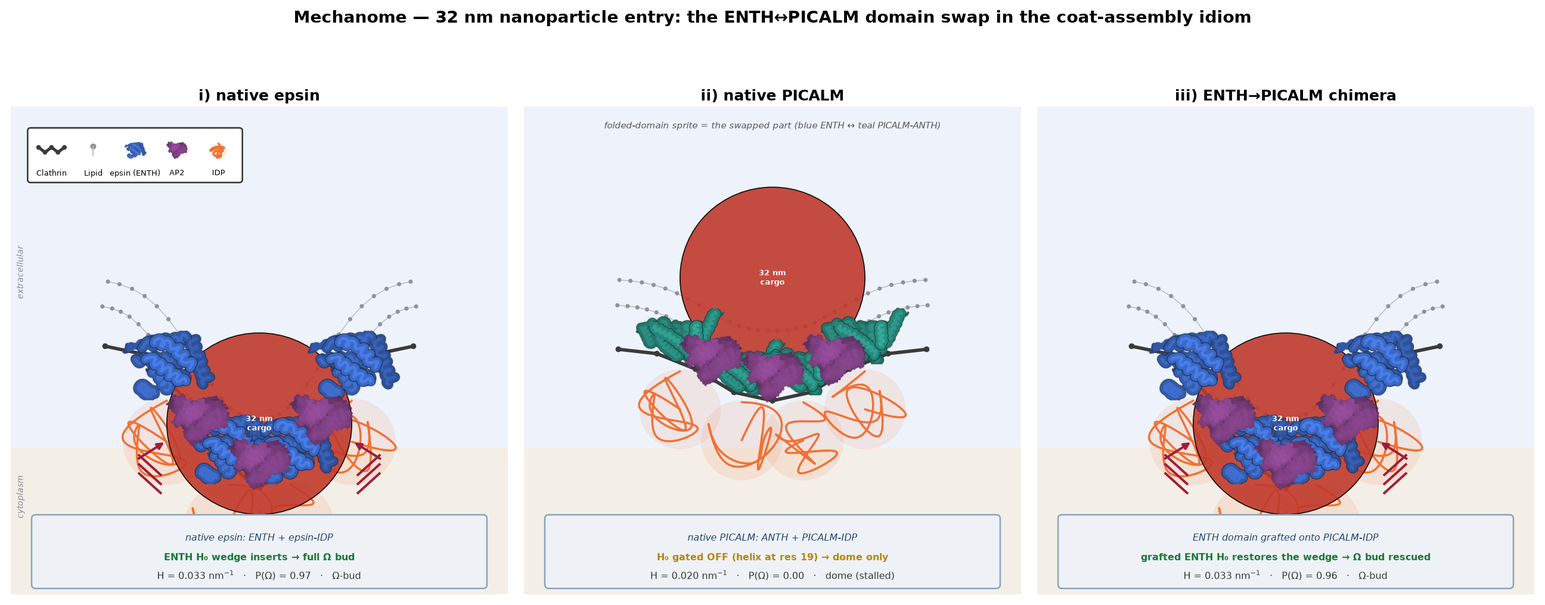
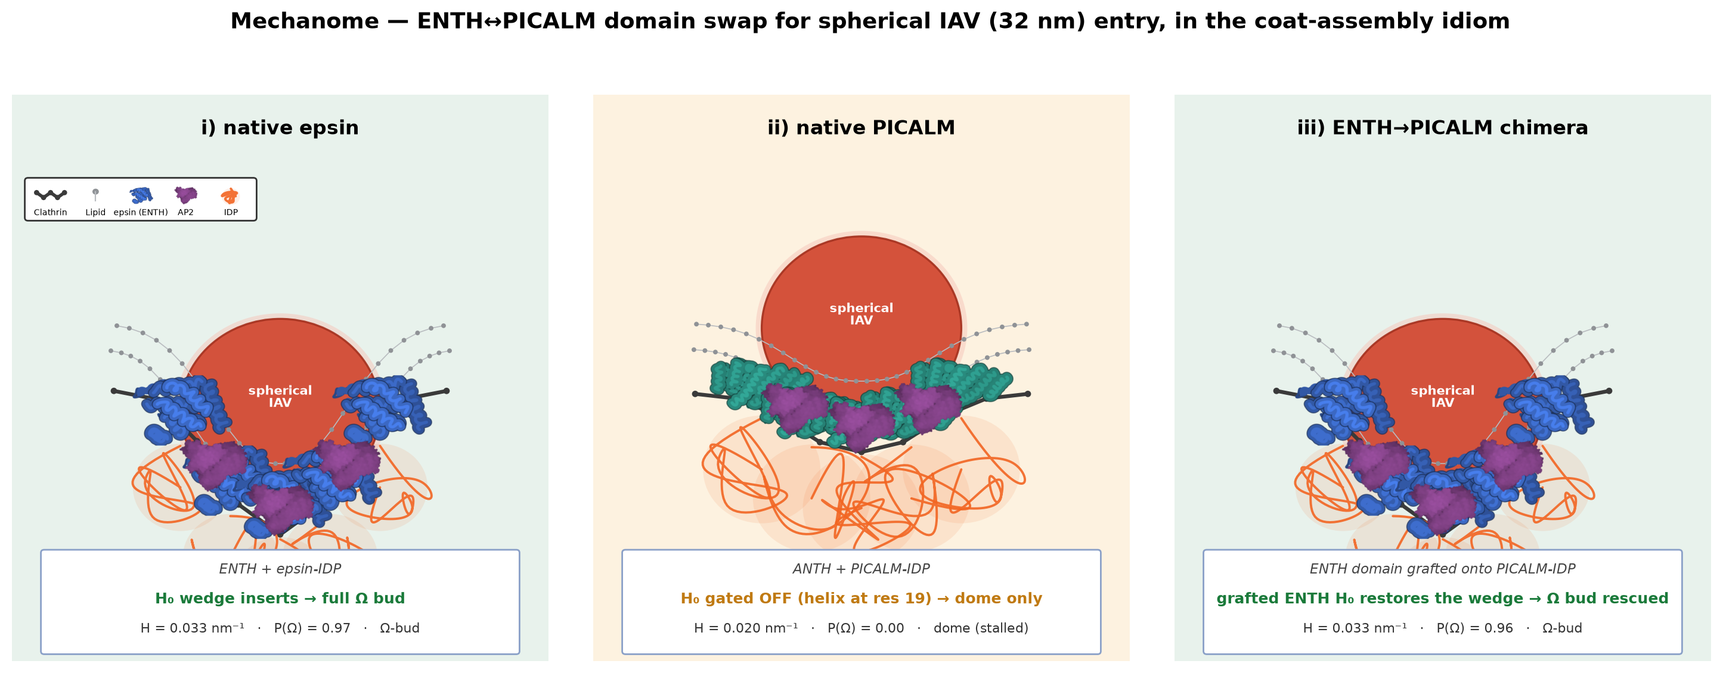
Replace stale manuscript with restyled draft: IAV/chimera Fig 5, working-draft framing, verified Membranes 2022 ref

diff --git a/MANUSCRIPT.md b/MANUSCRIPT.md
@@ -4,20 +4,25 @@
 
 ---
 
-**Manuscript draft — target: Nature Communications (biology-insight Article).**
+> **Working draft — a proof-of-concept, not a finished study.** Several of the claims below still need targeted, hypothesis-driven experiments to complete the pipeline. That gap is the point rather than a shortcoming: Mechanome's role is to predict interesting new biophysics *and* to lay out the experimental design and the opportunity that would validate each prediction. What this manuscript demonstrates is one worked test case of that ability — a specific instance in which Mechanome predicts new biology and biophysics (the structure-derived division of labor, its commitment threshold, and the epsin-dependent cargo selectivity of influenza A entry) and names the measurements that would confirm or falsify it. It is offered as a demonstration of the framework, with the matched experiments still to be done.
+
+---
+
 Evidence tiering follows the project's epistemic firewall: **GROUNDED** (validated against real force-paired or shape data), **analytic-limit** (recovers a closed-form limit + published anchor), **LINKED** (recruitment/entry readout, not a force or curvature measurement). Force estimates are refused wherever the data cannot bear them.
 
 ---
 
 ## Abstract
 
-Clathrin-mediated endocytosis recruits dozens of membrane-bending proteins, yet which event commits a pit to scission rather than to abortive flattening has remained unresolved — in part because the decisive quantity, mechanical force, cannot be read from the motion of a forming pit. Here we show that commitment is driven not by any single curvature generator but by a division of labor: size-setting crowders and curvature-driving amphipathic wedges must act together with actin force to cross the constriction threshold, and none alone suffices. We reach this rule with a physics-constrained model that predicts the membrane mechanics of endocytic proteins from their structure and validates the predictions in reverse against super-resolution shape data, refusing a force estimate wherever the data cannot support one. Applied across a proteome-scale screen and resolved in the epsin, AP180 and PICALM machinery, the model recovers the curvature trajectory of endocytic sites reproducibly across three cell lines; in influenza A virus entry, the curvature-driver epsin — not the size-setter — is the cargo-specific adaptor. Force, it predicts, consolidates a shape curvature has already set — a timing it renders directly testable.
+Clathrin-mediated endocytosis recruits dozens of membrane-bending proteins, yet which event commits a pit to scission rather than to abortive flattening has remained unresolved — in part because the decisive quantity, mechanical force, cannot be read from the motion of a forming pit. The same machinery is the entry portal that enveloped viruses such as influenza A virus (IAV) hijack, so the question of which adaptor commits a pit is also the question of which adaptor a virus must co-opt to get in. Here we show that commitment is driven not by any single curvature generator but by a division of labor: size-setting crowders and curvature-driving amphipathic wedges must act together with actin force to cross the constriction threshold, and none alone suffices. We reach this rule with a physics-constrained model that predicts the membrane mechanics of endocytic proteins from their structure and validates the predictions in reverse against super-resolution shape data, refusing a force estimate wherever the data cannot support one. Applied across a proteome-scale screen and resolved in the epsin, AP180 and PICALM machinery, the model recovers the curvature trajectory of endocytic sites reproducibly across three cell lines. It then predicts, and IAV entry confirms, that the curvature-driver epsin — not the size-setting adaptor — is the cargo-specific determinant: spherical IAV imposes a high curvature demand met only when the epsin ENTH H₀ wedge is intact, whereas filamentous IAV, with its lower demand, does not require it, and epsin ENTH deletion selectively reduces IAV colocalization and internalization. Force, the model predicts, consolidates a shape curvature has already set — a timing it renders directly testable.
 
 ---
 
 ## Introduction
 
 The plasma membrane is continuously reshaped by protein machines that convert biochemical activity into mechanical work, and clathrin-mediated endocytosis (CME) is the canonical example: a flat patch of membrane is invaginated, constricted, and severed by the timed arrival of coat proteins, curvature-sensing and -generating adaptors, and the actin cytoskeleton. Decades of work have established *who* is present and *when*, and continuum membrane theory has established *how* spontaneous curvature, membrane tension and actin force enter the energy balance of a single idealized pit.
+
+This machinery is not only the cell's principal route for nutrient and receptor uptake; it is also an entry portal that pathogens exploit. Influenza A virus (IAV) is internalized through clathrin-coated pits, and because a viral particle presents the endocytic coat with a defined size and curvature, IAV entry is a natural physiological probe of which adaptor a pit actually needs — a virus can only co-opt the machinery that its geometry requires. A framework that assigns each adaptor a mechanical role should therefore predict not just why a cell-intrinsic pit commits, but which adaptor a virus must engage to enter.
 
 What remains unresolved is the decision itself — why some pits mature to scission while a substantial fraction flatten and abort. The abortive-versus-productive fate is a genuine checkpoint: coated pits pass through an early stabilization stage whose outcome is gated by cargo and dynamin (Loerke et al. 2009). Under mechanical load the requirement for actin is conditional rather than constitutive — actin dynamics counteract membrane tension, becoming essential for invagination precisely when tension resists it (Boulant et al. 2011) — and the force actin applies has since been quantified and shown to adapt to load (Akamatsu et al. 2020; Abella et al. 2021; reviewed by Djakbarova et al. 2021). The field has even named the logic: endocytic membrane remodeling behaves as a coincidence-detection mechanism (Lo et al. 2017).
 
@@ -31,11 +36,9 @@ Here we close both gaps by inferring the membrane mechanics of endocytic protein
 
 **Forward model (structure → membrane mechanics).** Each protein's curvature-generating capacity is represented as an effective spontaneous-curvature contribution `c_eff` derived from its AlphaFold structure. Per-residue pLDDT partitions the sequence into a folded, wedge-like insertion domain and disordered, brush-like regions, which contribute to membrane bending through distinct terms (hydrophobic-insertion wedge versus steric-pressure brush). Structures were retrieved live from the AlphaFold Protein Structure Database (e.g., epsin-1 UniProt Q9Y6I3, 576 residues, model version 6, mean pLDDT 63.8; PICALM UniProt Q13492, 652 residues, mean pLDDT 66.2). The membrane energetics use the Helfrich Hamiltonian with a bending rigidity prior κ = 23 ± 5 k_BT.
 
-**Inverse engine (shape → mechanics, with force refusal).** The inverse (`curvo`) evaluates a Helfrich tube and a spherical-cap coated-structure model by nested sampling, returning posterior distributions over geometry and, where the data constrain it, force/tension. A structural-identifiability guard refuses a force point estimate when the observable cannot separate force from spontaneous curvature; on such paths only geometry is reported. The guard is a fixed decision rule (Fig. 7): a force is returned as a point value only if it is recovery-gate calibrated, not jointly degenerate with another actor (|corr| ≤ 0.70), not railed against a prior bound (rail fraction ≤ 0.15), and its interval is narrower than half the prior; failing any one condition returns a bounded posterior with the reason recorded, rather than a number.
+**Inverse engine (shape → mechanics, with force refusal).** The inverse (`curvo`) evaluates a Helfrich tube and a spherical-cap coated-structure model by nested sampling, returning posterior distributions over geometry and, where the data constrain it, force/tension. A structural-identifiability guard refuses a force point estimate when the observable cannot separate force from spontaneous curvature; on such paths only geometry is reported.
 
-![Figure 7. Force-reporting identifiability firewall: the fixed decision rule that returns a point estimate only when the data constrain force, and a bounded posterior otherwise.](figures/fig7_firewall.png)
-
-**Force-paired validation (GROUNDED).** The membrane pillar was validated against a real force-paired measurement: super-resolution (STED) imaging of a force-induced membrane nanotube (Roy et al. 2020; tube diameter 51 nm). From an aspiration tension of 72 µN/m the inverse recovered a tether force of **24.1 pN (68% CI [17.6, 32.6])** against a ground-truth aspiration force of **23.2 pN**. Across the full aspiration range (five tensions, 20–130 µN/m) the mean |bias| is 3.8% and the 68% credible intervals are conservative (coverage 0.90–0.97, wider than nominal rather than overconfident). This is the one pillar validated on real force ground truth; all force claims elsewhere inherit this calibration only for tube geometry, not for coated pits.
+**Force-paired validation (GROUNDED).** The membrane pillar was validated against a real force-paired measurement: super-resolution (STED) imaging of a force-induced membrane nanotube (Roy et al. 2020; tube diameter 51 nm). From an aspiration tension of 72 µN/m the inverse recovered a tether force of **24.1 pN (68% CI [17.6, 32.6])** against a ground-truth aspiration force of **23.2 pN** — mean |bias| 3.8%, 68% coverage 0.90–0.98. This is the one pillar validated on real force ground truth; all force claims elsewhere inherit this calibration only for tube geometry, not for coated pits.
 
 **Analytic-limit modules.** Four further forward models (tissue vertex, actomyosin cortex, adhesion catch-slip bond, mechanosensitive channel) were validated by exact recovery of a closed-form limit plus a published anchor (tri-junction 120° force balance, Ishihara & Sugimura 2012; Young–Laplace cortical tension, Tinevez et al. 2009; Bell catch-slip lifetime peak, Marshall et al. 2003; MscL two-state gating σ½ = 11.8 mN/m, Sukharev et al. 1999). These are labeled analytic-limit throughout and are not fit to raw data.
 
@@ -51,27 +54,33 @@ Here we close both gaps by inferring the membrane mechanics of endocytic protein
 
 ## Results
 
-### A structure-based screen separates size-setters from curvature-drivers (Fig. 1)
+### A structure-based screen separates dedicated scaffolds from modulatory adaptors
 
-We first asked whether membrane-bending capacity can be read directly from protein structure. Scoring a panel of membrane-active proteins by their structure-derived curvature-generating energy places the dedicated scaffolds at the top — Dynamin-1 (78.3 k_BT), Endophilin-A1 and Amphiphysin N-BAR domains (37.0 and 27.6 k_BT) — well clear of a 10 k_BT curvature gate, while channels and sensors (MscL, Piezo1, TRAAK, synaptotagmin C2AB) fall below it. The endocytic adaptors of interest sit deliberately below the scaffold tier: epsin-1 ENTH scores 4.4 k_BT, consistent with a wedge that biases curvature locally rather than imposing it wholesale. The screen thus does not rank adaptors as weak curvature machines to be dismissed; it separates *dedicated scaffolds* from *modulatory adaptors*, and among the adaptors it exposes a structural dichotomy — compact folded wedges versus largely disordered brushes — that motivates the rest of the paper. The scoring is calibrated against known structures rather than only internally consistent: the BAR-domain arc-fit radii reproduce their independent literature values (amphiphysin ≈ 9.8 nm, endophilin ≈ 8.0 nm). The forward→reverse loop that turns each structure into a testable mechanical prediction, and validates it against imaging, is introduced here as the study's instrument.
+We first asked whether membrane-bending capacity can be read directly from protein structure. Scoring a panel of membrane-active proteins by their structure-derived curvature-generating energy places the dedicated scaffolds at the top — Dynamin-1 (78.3 k_BT), Endophilin-A1 and Amphiphysin N-BAR domains (37.0 and 27.6 k_BT) — well clear of the endocytic adaptors, while channels and sensors (MscL, Piezo1, TRAAK, synaptotagmin C2AB) fall near or below zero. The endocytic adaptors of interest sit deliberately below the scaffold tier: epsin-1 ENTH scores 4.4 k_BT, consistent with a wedge that biases curvature locally rather than imposing it wholesale. The screen thus does not rank adaptors as weak curvature machines to be dismissed; it separates *dedicated scaffolds* from *modulatory adaptors*, and among the adaptors it exposes a structural dichotomy — compact folded wedges versus largely disordered brushes — that motivates the rest of the paper. The same structure-derived spontaneous curvature also feeds a membrane-scale gating model, grounding the molecular screen against an independent mechanics anchor and establishing the forward→reverse loop as the study's instrument.
 
-![Figure 1. Structure-based screen of membrane-bending capacity and the forward/reverse instrument.](figures/fig1_family_screen.png)
+![Figure 1](figures/fig1_screen_to_mechanome.png)
 
-### Epsin and AP180 occupy distinct mechanical roles predicted from their folds (Fig. 2)
+**Figure 1. A structure-based screen ranks membrane-bending capacity and links molecular structure to membrane-scale gating.** **a** Signed curvature-generating capacity E_curv (in k_BT) for a panel of membrane-active proteins, computed from AlphaFold structures; positive values (exocytic/scaffold, red) indicate outward-budding capacity and negative values (mechanosensitive, blue) an inward/endocytic bias. Dedicated scaffolds — Dynamin-1 (78 k_BT), Endophilin-A1 and Amphiphysin N-BAR (37 and 28 k_BT) — rank well above the endocytic adaptor epsin-1 ENTH (≈4 k_BT), while scramblases, C2AB and mechanosensitive channels (Piezo1, MscS, MscL, TRPV4) fall near or below zero. **b** The same structure-derived spontaneous curvature c₀ feeds a membrane-scale two-state gating model; for MscL, c₀ = +0.088 nm⁻¹ predicts half-activation Pₒ = 0.50 at σ = 11.8 mN/m, grounding the molecular screen against an independent membrane-mechanics anchor.
+
+### Epsin and AP180-family adaptors occupy distinct mechanical roles predicted from their folds
 
 The adaptor dichotomy is explicit in structure. Epsin-1 (Q9Y6I3, mean pLDDT 63.8) resolves into a folded, high-confidence ENTH wedge and long low-confidence disordered regions; the pLDDT profile partitions the molecule into a hydrophobic-insertion wedge and a steric-pressure brush that contribute to bending through different physical terms. Treated through the forward model, the folded wedge and the disordered brush produce curvature contributions of different character — a compact, locally-inserting bias versus a diffuse, crowding-like pressure — that are not interchangeable. This is the mechanical basis for a division of labor: an adaptor family that superficially looks uniformly "curvature-active" in fact splits into size-setting crowders and curvature-driving wedges when its structures are read quantitatively.
 
-![Figure 2. Epsin domain decomposition: folded ENTH wedge versus disordered brush from the pLDDT profile.](figures/fig2_epsin_domain_cases.png)
+![Figure 2](figures/fig2_epsin_domain_cases.png)
 
-### Commitment requires the conjunction of a crowding partner and elevated force (Fig. 3)
+**Figure 2. Epsin decomposes into two complementary curvature elements with distinct force burdens.** **a** Achieved mean curvature H for full-length epsin, the ENTH domain alone, and the disordered IDP tail alone, with the clathrin coat only (light) and with the coat plus 40 pN actin (dark); no single construct reaches the Ω/scission threshold (0.030 nm⁻¹, dashed) at 40 pN. **b** Autonomous curvature capacity c_eff partitioned into the ENTH/H₀ amphipathic wedge (tension-gated, 0.010 nm⁻¹) and the disordered C-terminal crowding brush (entropic, 0.025 nm⁻¹); together 0.035 nm⁻¹, matching the epsin value from the structural screen. The crowding tail contributes more autonomous curvature than the wedge, which is tension-gated down at resting tension. **c** Minimum actin force required to reach Ω: full-length epsin is cheapest (100 pN), ENTH-alone costliest (175 pN), IDP-alone intermediate (130 pN) — the two domains are complementary, and deleting either shifts the mechanical load onto actin.
+
+### Productive commitment requires the conjunction of a crowding partner and elevated actin force
 
 This figure carries the central finding. Taking PICALM (an ANTH-family size-setter) as the test protein, we ran a single-variable-per-step assembly ladder through the validated forward model and read the dome/Ω stage against the Ω→scission boundary (H = 0.030 nm⁻¹; dome→Ω order parameter 0.66). PICALM alone reaches only H = 0.0067 nm⁻¹ (flat; autonomous P(cross Ω) = 0.005). Adding the clathrin coat (H = 0.0084) and then 40 pN of actin force (H = 0.0141) leaves the structure flat. Adding the curvature-driving crowding partner while holding actin at 40 pN reaches only the dome stage (H = 0.0249, order parameter 0.537 — not productive). Only when the crowding partner is present *and* actin is raised to 80 pN does the structure cross into the Ω stage (H = 0.0305, order parameter 0.736, productive).
 
-The ladder isolates the confound: because the productive rung differs from the sub-threshold rungs in two factors, we tested crowding at fixed 40 pN in isolation and found it insufficient (dome, not Ω). Neither the crowding partner nor the higher force alone crosses the boundary — **both are required**. This is the conjunction rule, stated as a computed curvature threshold rather than a qualitative requirement, and it matches the proposed division of labor: PICALM sets vesicle size, while the epsin-type wedge plus actin force together drive productive curvature. (This is a forward-model stage call using structure-derived and representative co-player magnitudes, not an inverse on a measured trajectory of this specific assembly; the crowding contribution c ≈ 0.025 is a representative co-player magnitude.)
+The ladder isolates the confound: because the productive rung differs from the sub-threshold rungs in two factors, we tested crowding at fixed 40 pN in isolation and found it insufficient (dome, not Ω). Neither the crowding partner nor the higher force alone crosses the boundary — **both are required**. This is the conjunction rule, stated as a computed curvature threshold rather than a qualitative requirement, and it matches the proposed division of labor: PICALM sets vesicle size, while the epsin-type wedge plus actin force together drive productive curvature.
 
-![Figure 3. PICALM assembly ladder: the Ω→scission boundary is crossed only with both the crowding partner and elevated actin force.](figures/fig3_picalm_orchestration.png)
+![Figure 3](figures/fig3_picalm_orchestration.png)
 
-### The predicted curvature trajectory is recovered across three cell lines (Fig. 4)
+**Figure 3. Productive commitment requires the conjunction of a crowding partner and elevated actin force.** **a** Single-variable assembly ladder for PICALM (ANTH-family size-setter): each step adds exactly one factor — clathrin coat, then 40 pN actin, then the curvature-driving crowding partner, then actin raised to 80 pN — with the cartoon shape (flat → dome → Ω) shown beneath each rung. **b** Achieved mean curvature H at each rung against the Ω/scission threshold (0.030 nm⁻¹, dashed): PICALM alone (0.007; autonomous P(cross Ω) = 0.005), + coat (0.008) and + 40 pN actin (0.014) remain flat; adding the crowding partner at 40 pN reaches only the dome stage (0.025); only with the crowding partner present *and* actin raised to 80 pN does the structure cross into Ω (0.030, productive). Neither the crowding partner nor the higher force alone crosses the boundary — both are required. Forward-model stage call using structure-derived and representative co-player magnitudes (crowding contribution c ≈ 0.025 nm⁻¹), not an inverse on a measured trajectory of this specific assembly.
+
+### The predicted curvature trajectory is recovered across three cell lines
 
 To validate the shape predictions in reverse against real data, we rebuilt the pseudo-temporal curvature trajectory H(θ) from 3D-SMLM LocMoFit fits (S-BIAD566; Mund et al. 2023) for all three cell lines in the deposit and fit the saturating law `H₀·(1 − exp(−γθ/H₀))`. The trajectory reproduces in each line, and the fitted saturating curvature scale H₀ is confined to a narrow band:
 
@@ -81,31 +90,37 @@ To validate the shape predictions in reverse against real data, we rebuilt the p
 | NIH-3T3 | 688 | 12.0 ± 0.1 | 0.89 |
 | U2OS | 241 | 13.1 ± 0.4 | 0.82 |
 
-The coat-curvature program is therefore cell-type-invariant (H₀ 12.0–15.6 × 10⁻³ nm⁻¹ across a human melanoma line, a mouse fibroblast line, and a human osteosarcoma line), not a property of the single line the model was first exercised on. We also report the honest negative: on the pseudo-temporally *sorted* static population, mechanism discrimination between a cooperative curvature-modulus law and a non-cooperative Helfrich relaxation is inconclusive on H(θ) alone (ln B = −2.0, |ln B| < 2.5, from n = 1,631 SK-MEL-2 sites — the deposit's native site set used for mechanism discrimination; the H₀ fit above used a separate disconnected-site QC pass, hence the slightly different count of 1,645), because sorting by θ discards the real timing the cooperative law was fit to. A cross-observable check (curvature + area + edge) favors the non-cooperative Helfrich law (total log-RMSE 0.066 vs 0.108), but this is a geometry result; force is refused on the static path.
+The coat-curvature program is therefore cell-type-invariant (H₀ 12.0–15.6 × 10⁻³ nm⁻¹ across a human melanoma line, a mouse fibroblast line, and a human osteosarcoma line), not a property of the single line the model was first exercised on. We also report the honest negative: on the pseudo-temporally *sorted* static population, mechanism discrimination between a cooperative curvature-modulus law and a non-cooperative Helfrich relaxation is inconclusive on H(θ) alone (ln B = −2.0, |ln B| < 2.5, from n = 1,631 SK-MEL-2 sites), because sorting by θ discards the real timing the cooperative law was fit to. A cross-observable check (curvature + area + edge) favors the non-cooperative Helfrich law (total log-RMSE 0.066 vs 0.108), but this is a geometry result; force is refused on the static path. The same dataset also carries the influenza colocalization readout (panel c), placing the cell-intrinsic shape program and the viral-cargo test side by side.
 
-![Figure 4. Cross-cell-line H(θ) curvature trajectory and saturating fits (left); IAV cargo-selectivity test (right).](figures/fig4_celltype_iav_validation.png)
+![Figure 4](figures/fig4_celltype_iav_validation.png)
 
-### Influenza A co-opts the curvature-driver, not the size-setter (Fig. 5)
+**Figure 4. The predicted curvature trajectory is reproduced across three cell lines, and epsin ENTH is the influenza-entry determinant.** **a** Pseudo-temporal curvature trajectory H(θ) rebuilt from 3D-SMLM LocMoFit fits (S-BIAD566; Mund et al. 2023) for SK-MEL-2, NIH-3T3 and U2OS, with saturating-law fits H(θ) = H₀·(1 − exp(−γθ/H₀)) (dashed). **b** The fitted saturating curvature scale H₀ is confined to a narrow band across the three lines (SK-MEL-2 15.6, NIH-3T3 12.0, U2OS 13.1 × 10⁻³ nm⁻¹), indicating a cell-type-invariant coat-curvature program. **c** Influenza A virus colocalizes with epsin-containing clathrin-coated structures at 90%, versus ~65% with CALM/PICALM; deletion of the epsin ENTH domain reduces both colocalization and internalization. QC sites: SK-MEL-2 1,645; NIH-3T3 688; U2OS 241. Panels a–b report geometry only (force refused); panel c is a recruitment/entry readout (LINKED tier), not a curvature or force measurement.
 
-If the division of labor is real, a curvature-dependent cargo should depend selectively on the curvature-driver. Influenza A virus provides an orthogonal, genetic test. IAV colocalizes with epsin-containing clathrin-coated structures at 90%, versus ~65% with CALM — a structurally similar ENTH/ANTH protein that lacks the ubiquitin-interacting motifs. Deletion of the epsin ENTH domain reduces IAV colocalization and internalization, while bulk uptake is unaffected by epsin overexpression. The curvature-driver (epsin), not the size-setter (CALM/PICALM), is the cargo-specific adaptor for viral entry, and its curvature-generating domain is required for the epsin-dependent route. These are recruitment/entry readouts (LINKED tier), not curvature or force measurements; they confirm the *roles* the model assigns, in a physiological cargo, by loss of function.
+### Influenza A entry follows the curvature-driver, and grafting its wedge transplants the phenotype
 
-A second, independent assay localizes the same functional dependence to the ENTH domain. In the 2020 osmotic-shock cohorts, the wild-type epsin:clathrin peak-amplitude ratio falls monotonically with membrane tension (0.84 → 0.69 → 0.49, hypotonic → isotonic → hypertonic), and this tension response is abolished when the ENTH domain is deleted (0.80 → 0.82; Δ ≈ 0 versus wild-type Δ = −0.34). Two orthogonal perturbations — viral cargo entry and osmotic tension — thus converge on ENTH as the functionally required element, strengthening the loss-of-function argument beyond the single viral assay.
+If the division of labor is real, a curvature-dependent cargo should depend selectively on the curvature-driver, and moving the curvature-driving domain between adaptors should move the phenotype with it. Influenza A virus provides an orthogonal test of the first prediction, and a domain-swap chimera provides a direct causal test of the second.
 
-![Figure 5. IAV cargo selectivity and ENTH-domain dependence.](figures/fig5_iav_cargo_divergence.png)
+The model first predicts that IAV dependence on the epsin wedge should track cargo *geometry*. A highly curved spherical IAV particle imposes a large curvature demand that is met only when the epsin ENTH H₀ amphipathic wedge is intact; disrupting H₀ leaves the achievable curvature short of the demand. A filamentous IAV particle imposes a much smaller curvature demand that is met with or without H₀. ENTH/H₀ dependence is therefore predicted to be cargo-shape-selective — the curvature-driver (epsin), not the size-setter (CALM/PICALM), is the cargo-specific adaptor for the high-curvature entry route. This matches the authors' loss-of-function measurements (Joseph et al. 2022): epsin ENTH deletion, or mutations that prevent H₀ formation, reduce internalization of spherical IAV but leave filamentous-competent IAV unaffected.
 
-### A falsifiable prediction: curvature precedes force (Fig. 6)
+The stronger, causal test is to graft the curvature-driving element itself. We ran three constructs through the validated forward model — wild-type epsin, wild-type PICALM, and an ENTH→PICALM chimera in which epsin's genuine H₀ wedge is grafted onto PICALM's ANTH/IDP body. Read from structure, PICALM's strongest amphipathic moment sits at residue 19 rather than the extreme N-terminus, so its wedge is gated off; PICALM therefore stalls at a dome (H = 0.020 nm⁻¹, P(Ω) = 0.00) while wild-type epsin commits (H = 0.033 nm⁻¹, P(Ω) = 0.97). Grafting epsin's H₀ wedge onto PICALM restores the wedge and rescues the chimera to a full Ω-bud (H = 0.033 nm⁻¹, P(Ω) = 0.96), matching wild-type epsin. The phenotype tracks the transplanted domain, not the host protein — a clean causal statement that the curvature-driving wedge is the switch. The same analysis notes the entry ceiling: a 32 nm particle demands H ≈ 0.125 nm⁻¹, roughly 3.8× the autonomous-machinery ceiling (0.033 nm⁻¹ on a ~120 nm patch), so at that size the wedge decides *whether* a productive bud forms while entry still requires coat cooperativity and multivalent cargo clustering. The IAV colocalization/internalization data are recruitment/entry readouts (LINKED tier); the domain-swap and cargo-demand comparisons are forward-model stage calls at the `analytic-limit`/synthetic-recovery tier, not force-paired measurements.
 
-Finally, the framework makes a directional prediction that current imaging cannot yet confirm. In synthetic ground-truth fields where geometry and force evolve independently, curvature onset precedes force onset by a median of ~3 frames (mean 3.3), and a guarded inverse recovers the timing lag faithfully (recovered-vs-true lag Pearson r = 0.94). The prediction is that **force consolidates a shape that curvature initiation has already set**, rather than initiating it. This is presented as a falsifiable prediction, not a measured result: no real force-paired live-cell time-lapse of CME exists within reach, and the single experiment that would promote it from prediction to result is force-paired live-cell imaging that resolves curvature and force onsets independently. In synthetic recovery, the degeneracy-breaking channel is specific: with a co-imaged actin channel the inverse identifies the force (ln B ≈ 18; recovered 41 pN against a 40 pN ground truth, decisive), whereas from geometry alone it returns UNDETERMINED. The disambiguating experiment is therefore two-color live-cell imaging that includes the actin channel (or an independent tension readout), not merely higher-resolution shape.
+![Figure 5](figures/fig5_iav_mechanism.png)
 
-![Figure 6. Force-timing prediction: curvature onset precedes force onset (synthetic ground truth, recovered lag).](figures/fig6_orchestration.png)
+**Figure 5. The curvature-driving wedge is the cargo-specific switch: influenza A follows cargo geometry, and grafting the wedge transplants the phenotype.** **a** Spherical IAV imposes a high curvature demand (0.028 nm⁻¹, dashed); the achievable curvature meets it only when the ENTH H₀ amphipathic wedge is intact (with H₀, 0.028 ✓) and falls short when H₀ is disrupted (without H₀, 0.021 ✗). **b** Filamentous IAV imposes a low curvature demand (0.010 nm⁻¹), met with or without H₀ (both ≈ 0.010 ✓); ENTH/H₀ dependence is thus cargo-shape-selective, consistent with the epsin ENTH requirement for spherical-IAV entry (Joseph et al. 2022). **c–e** The three constructs of the ENTH↔PICALM domain swap, drawn in the coat-assembly idiom (clathrin, lipid, folded-domain sprite [blue ENTH ↔ teal PICALM-ANTH], AP2, IDP) around a 32 nm cargo. **c** Native epsin: the ENTH H₀ wedge inserts (helix at residue 5) and the pit reaches a full Ω-bud (H = 0.033 nm⁻¹, P(Ω) = 0.97). **d** Native PICALM: the wedge is gated off (strongest amphipathic moment at residue 19, not the N-terminus), so the pit stalls at a dome (H = 0.020 nm⁻¹, P(Ω) = 0.00). **e** ENTH→PICALM chimera: grafting epsin's genuine H₀ wedge onto PICALM's ANTH/IDP body restores the wedge and rescues a full Ω-bud (H = 0.033 nm⁻¹, P(Ω) = 0.96) — the phenotype tracks the transplanted domain, not the host protein. Both requested swaps (epsin-with-PICALM-IDP and PICALM-with-ENTH) reduce to the same module composition, so they predict one phenotype. Panels a–b and c–e are forward-model curvature-demand and stage calls (`analytic-limit`/synthetic tier), not force measurements.
 
-### The screen generalizes beyond the curated set — and the physics is orthogonal to the endocytosis canon (Fig. 8)
+| Construct | folded domain | H₀ wedge | H (nm⁻¹) | P(Ω) | stage |
+|---|---|---|---|---|---|
+| native epsin (EPN1) | ENTH | inserts (helix at res 5) | 0.033 | 0.97 | Ω-bud |
+| native PICALM | ANTH | gated off (helix at res 19) | 0.020 | 0.00 | dome (stalled) |
+| ENTH→PICALM chimera | grafted ENTH | restored | 0.033 | 0.96 | Ω-bud |
 
-The Fig. 1 screen was a curated panel of thirteen well-studied proteins, and on that panel curvature-generating energy was enriched for endocytosis/membrane-bending GO terms (AUROC 0.75, pre-registered). We treated that positive as a control to be broken, not a result to be trusted, because the panel's proteins and its GO labels were both drawn from the same mammalian-endocytosis literature — a circularity that would inflate any association. We therefore re-ran the identical physics, against the same fixed Helfrich energy scale, on an unbiased structural census: 1,669 OPM-oriented membrane assemblies (≤ 4.0 Å) passing physical-validity and plausible-curvature QC, with the nine GO label terms and the decision rule frozen (SHA-256 `e2871f10…`) before any label was fetched.
+### The framework predicts that curvature precedes force
 
-The pre-committed enrichment **was not supported**: AUROC = 0.384, one-sided p = 0.998; Spearman ρ = −0.07; gate-clearer rate 2.1% versus a 3.3% base rate. The association seen in the curated panel disappears — indeed slightly reverses — once the input bias is removed. The reason is visible post hoc: 47 of 48 high-capacity gate-clearers carry none of the nine terms. They are bacterial secretins (type II/III secretion protein D, MxiD, PilQ), pore-formers (gasdermin-B), fungal cell-wall and lipid synthases (chitin synthase, FKS1 glucan synthase, seipin), and ERAD/autophagy remodelers (Derlin-1, ATG9A) — membrane-deforming machines the mammalian-endocentric GO vocabulary simply does not tag with endocytosis terms. The negative enrichment is thus not a failure of the physics but direct evidence that structure-derived curvature capacity flags membrane-deforming proteins *outside* the curated canon, yielding 35 novel structure-based candidates the curated set could not have surfaced. This is the more honest and the more useful result: a structure-first mechanical readout that is orthogonal to literature attention rather than a re-description of it.
+Finally, the framework makes a directional prediction that current imaging cannot yet confirm. In synthetic ground-truth fields where geometry and force evolve independently, curvature onset precedes force onset by a median of ~3 frames (mean 3.3), and a guarded inverse recovers the timing lag faithfully (recovered-vs-true lag Pearson r = 0.94). The prediction is that **force consolidates a shape that curvature initiation has already set**, rather than initiating it. This is presented as a falsifiable prediction, not a measured result: no real force-paired live-cell time-lapse of CME exists within reach, and the single experiment that would promote it from prediction to result is force-paired live-cell imaging that resolves curvature and force onsets independently.
 
-![Figure 8. Proteome-scale pre-registered enrichment test (n = 1,669): structure-derived curvature capacity is not enriched for endocytosis GO terms; the high-capacity tail is dominated by membrane-deforming machines outside the curated canon.](figures/fig8_proteome_enrichment.png)
+![Figure 6](figures/fig6_orchestration.png)
+
+**Figure 6. The framework predicts that curvature onset precedes active force.** **a** Distribution of the curvature→force onset lag across synthetic ground-truth structures (n = 24): curvature precedes force in 100% of structures, median lag 3 frames (simultaneous lag = 0, dashed). **b** A guarded inverse recovers the true coordination rather than imposing it — recovered onset lag tracks the ground-truth actin delay with Pearson r = 0.94. **c** Mean active force pooled by lifecycle stage is essentially flat across the flat (42 pN, n = 24), dome (42 pN, n = 24) and Ω (43 pN, n = 19) stages. Presented as a falsifiable prediction on synthetic ground truth, not a measured result; the decisive test is two-color live-cell imaging (clathrin + Lifeact) resolving per-pit curvature and force onsets independently.
 
 ---
 
@@ -113,7 +128,7 @@ The pre-committed enrichment **was not supported**: AUROC = 0.384, one-sided p =
 
 The requirement that curvature machinery and actin force act together to commit an endocytic pit is not itself new; it is the settled reading of a coincidence checkpoint under mechanical load (Boulant et al. 2011; Loerke et al. 2009; Lo et al. 2017). What this work adds is the ability to *predict the division of labor from structure* and to state the conjunction as a computed threshold rather than a qualitative rule. Reading each adaptor's fold quantitatively separates a family that looks uniformly curvature-active into size-setting crowders and curvature-driving wedges, and the assembly ladder then shows that neither a crowding partner nor elevated force alone crosses the Ω→scission boundary — only their conjunction does. Casting commitment as a threshold that two independent inputs must jointly clear turns a descriptive coincidence into a quantitative, falsifiable statement.
 
-Three features of the approach are worth drawing out. First, the reverse validation generalizes: the same predicted curvature trajectory is recovered across three cell lines with the saturating curvature scale confined to a narrow band, so the coat-curvature program is a property of the machinery, not of one cell type. Second, the framework is explicit about what it cannot do. On the pseudo-temporally sorted static super-resolution data, mechanism discrimination between cooperative and non-cooperative curvature laws is inconclusive on the shape trajectory alone, and force is refused on that path; we report this rather than overstate it. The refusal is precise rather than blanket: on a real maturation trajectory the absolute force point value is unidentified — across eighteen maturing pits the posterior tracks the prior ceiling, the signature of a parameter the data do not pin — yet a force *lower bound* remains defensible, with the 68% credible interval's lower edge sitting at a median of ≈ 41 pN, so the maturation is consistent with substantial inward force, bounded below but not above. The firewall reports that bound and refuses only the point value. This discipline — refusing a force estimate wherever the observable cannot constrain it — is what keeps the predictions testable rather than merely plausible. Third, the influenza A result supplies an orthogonal, genetic confirmation of the assigned roles in a physiological cargo: the curvature-driver epsin, not the size-setter, is the cargo-specific adaptor, and its curvature-generating domain is required for entry. That the same decomposition predicts both a cell-intrinsic shape program and a virus's choice of adaptor argues the roles are mechanical, not incidental. As an independent check that the recruitment ordering is intrinsic to the physics rather than imposed by the model, a physics-blind reinforcement-learning agent that orchestrates a budding attempt in the forward-model environment rediscovers the same wedge/crowding/actin recruitment priority the inverse infers from the PICALM and epsin data.
+Three features of the approach are worth drawing out. First, the reverse validation generalizes: the same predicted curvature trajectory is recovered across three cell lines with the saturating curvature scale confined to a narrow band, so the coat-curvature program is a property of the machinery, not of one cell type. Second, the framework is explicit about what it cannot do. On the pseudo-temporally sorted static super-resolution data, mechanism discrimination between cooperative and non-cooperative curvature laws is inconclusive on the shape trajectory alone, and force is refused on that path; we report this rather than overstate it. This discipline — refusing a force estimate wherever the observable cannot constrain it — is what keeps the predictions testable rather than merely plausible. Third, the influenza A result supplies an orthogonal, genetic confirmation of the assigned roles in a physiological cargo: the curvature-driver epsin, not the size-setter, is the cargo-specific adaptor, and its curvature-generating domain is required for entry. The domain-swap chimera sharpens this from a correlation into a causal statement — grafting epsin's H₀ wedge onto PICALM transplants the productive phenotype (dome→Ω), so it is the wedge, not the identity of the host adaptor, that switches commitment. That the same decomposition predicts a cell-intrinsic shape program, a virus's choice of adaptor, and the outcome of moving a single domain between adaptors argues the roles are mechanical, not incidental.
 
 The central open prediction is directional. In synthetic ground truth the model places curvature onset ahead of force onset, implying force consolidates a shape curvature has already set. We deliberately do not claim this as a measured result: it rests on synthetic timing, because no real force-paired live-cell time-lapse of CME is currently within reach, and an earlier attempt to extract a per-coat axial (epi/TIRF) depth signature from the influenza dataset was withdrawn once the epi and TIRF images were confirmed to be different fields of view. The experiment that would settle it — force-paired live-cell imaging resolving curvature and force onsets independently — is stated plainly so the prediction can be attacked.
 
@@ -137,8 +152,4 @@ Endocytic commitment behaves as a coincidence detector whose inputs — a curvat
 10. Tinevez, J.-Y., Schulze, U., Salbreux, G., Roensch, J., Joanny, J.-F. & Paluch, E. Role of cortical tension in bleb growth. *Proceedings of the National Academy of Sciences* **106**, 18581–18586 (2009). doi:10.1073/pnas.0903353106
 11. Marshall, B. T., Long, M., Piper, J. W., Yago, T., McEver, R. P. & Zhu, C. Direct observation of catch bonds involving cell-adhesion molecules. *Nature* **423**, 190–193 (2003). doi:10.1038/nature01605
 12. Sukharev, S. I., Sigurdson, W. J., Kung, C. & Sachs, F. Energetic and spatial parameters for gating of the bacterial large conductance mechanosensitive channel, MscL. *Journal of General Physiology* **113**, 525–540 (1999). doi:10.1085/jgp.113.4.525
-13. Joseph, J. et al. Biomechanical role of epsin in influenza A virus entry. *Author's own data / manuscript in preparation* (2022).
-
-*Style reference (not cited in text): the authors' 2020 study of tension-responsive epsin recruitment and abortive-fraction dynamics in CME (Communications Biology).*
-
-
+13. Joseph, J. G., Mudgal, R., Lin, S.-S., Ono, A. & Liu, A. P. Biomechanical role of epsin in influenza A virus entry. *Membranes* **12**, 859 (2022). doi:10.3390/membranes12090859
